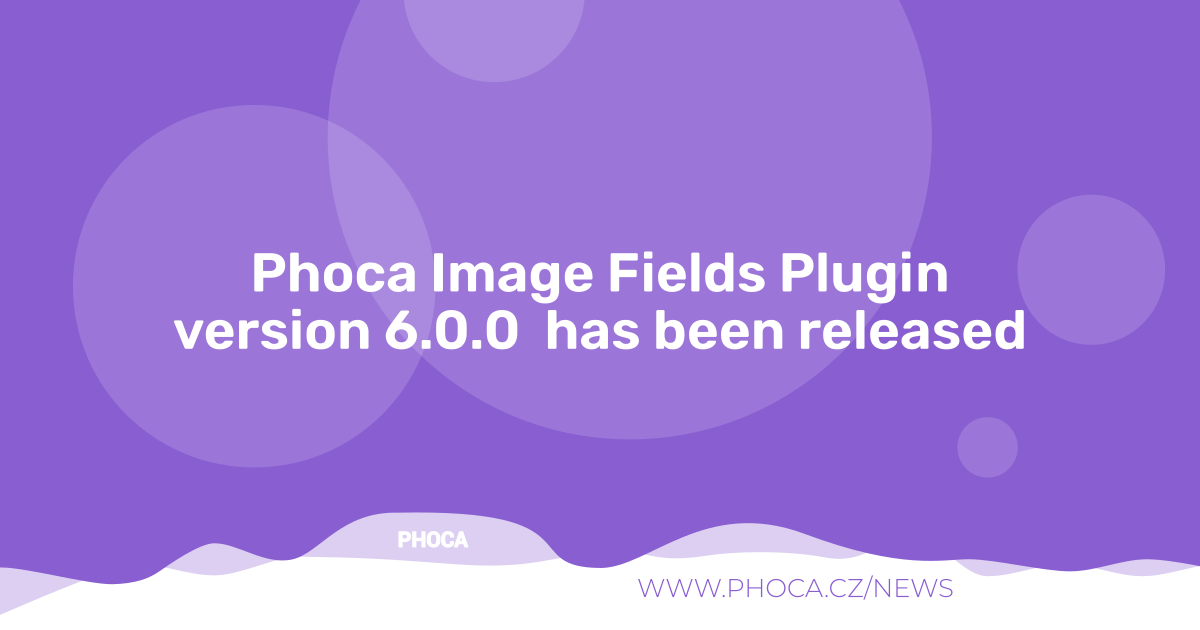
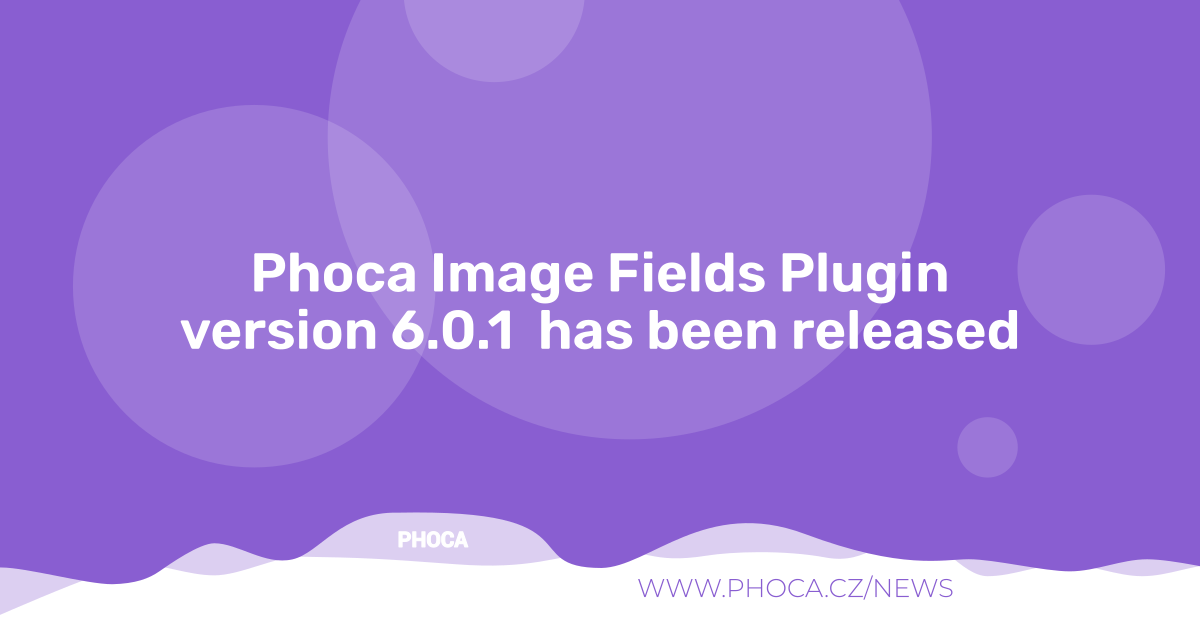
6.0.1

Changed region(s): [[0.1233, 0.4825, 0.8633, 0.573]]

diff --git a/media/css/backend.css b/media/css/backend.css
@@ -110,3 +110,20 @@
     border-radius: 2px;
     transition: width 0.3s;
 }
+
+[data-bs-theme="dark"] {
+    .phocaimage-dropzone {
+        background: transparent;
+    }
+
+    .phocaimage-item {
+        background: #6c757d;
+        color: #f9f9f9;
+    }
+    .phocaimage-info {
+        background: transparent;
+    }
+    .phocaimage-filename {
+        color: #f9f9f9;
+    }
+}
